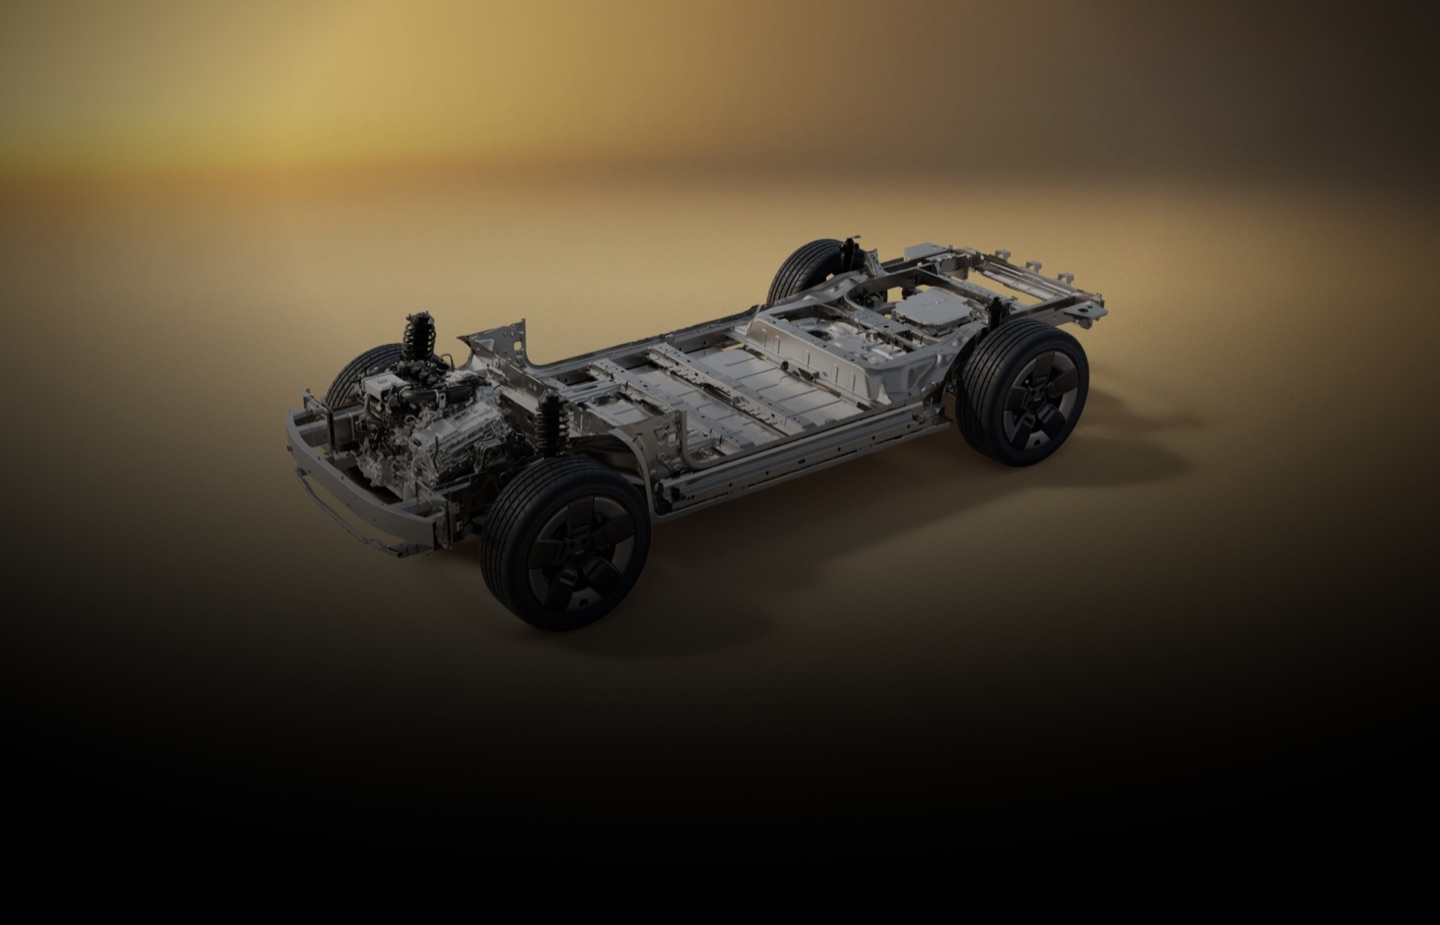
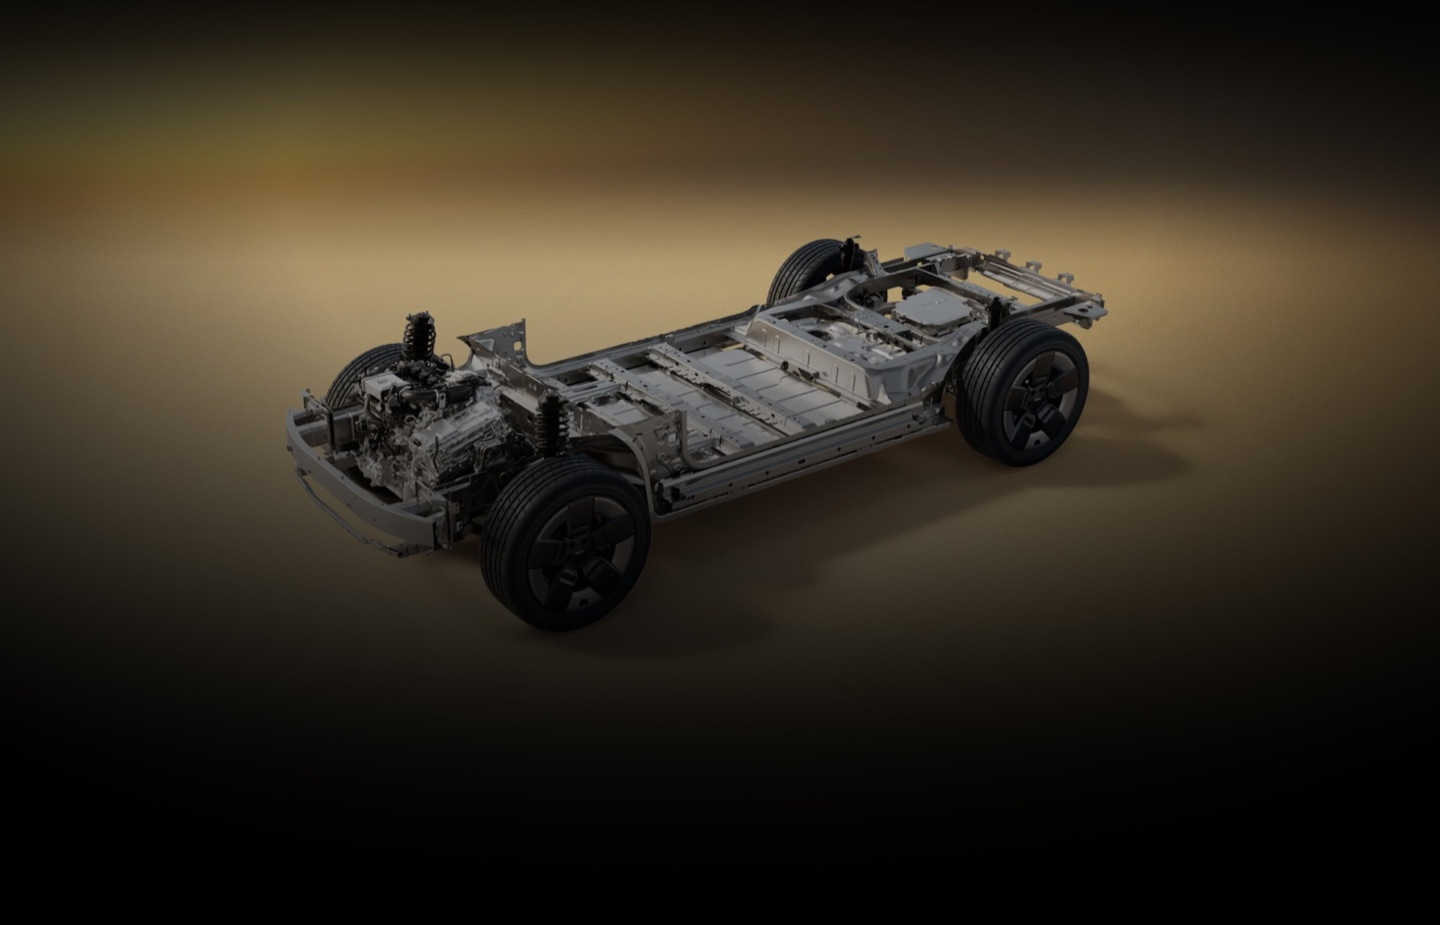
V27 Tecnologia: nuova foto del pianale, testo 70px più in alto con a capo prima della frase in evidenza

Changed region(s): [[0.0, 0.0, 1.0, 0.2422]]

diff --git a/src/assets/css/model.css b/src/assets/css/model.css
@@ -428,7 +428,7 @@ html.is-spot-open .site-header { transform: translateY(calc(-100% - var(--header
     linear-gradient(to right, #140d0b 0%, rgba(20, 13, 11, 0) 18%, rgba(20, 13, 11, 0) 82%, #140d0b 100%);
 }
 .perf__text {
-  max-width: 40em; margin: var(--space-lg) auto 0; text-align: center;
+  max-width: 40em; margin: calc(var(--space-lg) - 70px) auto 0; text-align: center; position: relative; z-index: 1;
   font-size: clamp(1.0625rem, 0.95rem + 0.45vw, 1.3125rem); line-height: 1.45; font-weight: 500; color: rgba(255, 255, 255, 0.55);
 }
 .perf__text strong { color: var(--c-white); font-weight: 500; }
